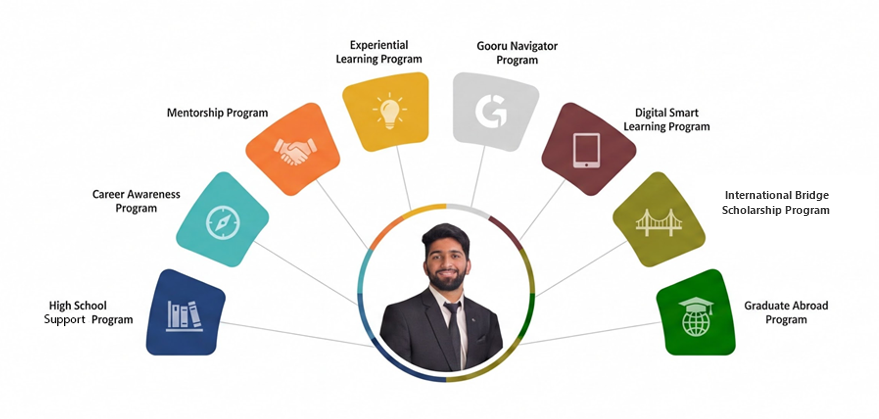
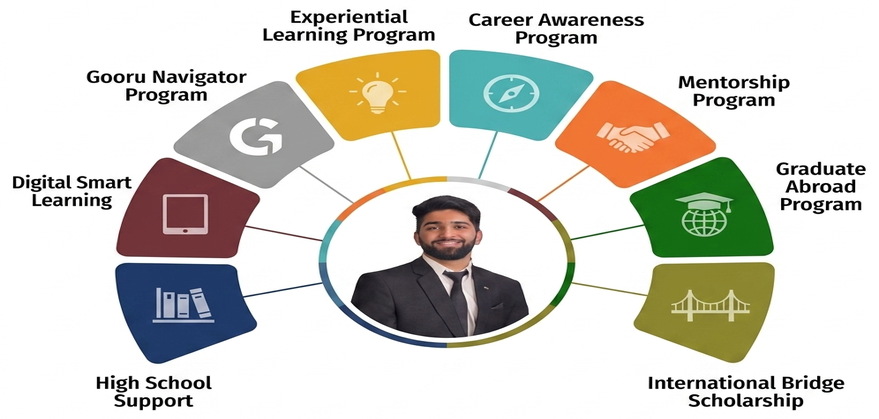
value we deliver photo updated

diff --git a/src/components/ForScholarsPart/ForScholarsPrograms.jsx b/src/components/ForScholarsPart/ForScholarsPrograms.jsx
@@ -2,18 +2,17 @@ import React from "react";
 import { useNavigate, Link } from "react-router-dom";
 import "../../styles/For-Scholars/forscholars-programs.css";
 import { programs } from "../../data/programs";
-import rainbowImg from "../../assets/Images/value-we-deliver-updated.png";
+import rainbowImg from "../../assets/Images/value-we-deliver-rearranged.png";
 
-// ── Rainbow clickable overlay positions (% of image width/height) ──────────
 const rainbowHotspots = [
-  { id: "hsp",         label: "High School\nSupport",          left: "3%",  top: "52%", width: "14%", height: "40%" },
-  { id: "cap",         label: "Career\nAwareness",             left: "11%", top: "28%", width: "14%", height: "40%" },
-  { id: "mentorship",  label: "Mentorship\nProgram",           left: "23%", top: "8%",  width: "14%", height: "38%" },
-  { id: "experiential",label: "Experiential\nLearning",        left: "37%", top: "0%",  width: "14%", height: "35%" },
-  { id: "gooru",       label: "Gooru\nNavigator",              left: "51%", top: "0%",  width: "14%", height: "35%" },
-  { id: "dsle",        label: "Digital Smart\nLearning",       left: "64%", top: "5%",  width: "15%", height: "38%" },
-  { id: "ibsp",        label: "International\nBridge",         left: "75%", top: "26%", width: "14%", height: "40%" },
-  { id: "gap",         label: "Graduate\nAbroad",              left: "84%", top: "50%", width: "14%", height: "42%" },
+  { id: "hsp",         label: "High School\nSupport",          left: "4%",  top: "57%", width: "12%", height: "30%" },
+  { id: "dsle",        label: "Digital Smart\nLearning",       left: "12%", top: "33%", width: "12%", height: "30%" },
+  { id: "gooru",       label: "Gooru\nNavigator",              left: "24%", top: "12%", width: "12%", height: "30%" },
+  { id: "experiential",label: "Experiential\nLearning",        left: "38%", top: "2%",  width: "12%", height: "30%" },
+  { id: "cap",         label: "Career\nAwareness",             left: "50%", top: "2%",  width: "12%", height: "30%" },
+  { id: "mentorship",  label: "Mentorship\nProgram",           left: "65%", top: "9%",  width: "12%", height: "30%" },
+  { id: "gap",         label: "Graduate\nAbroad",              left: "76%", top: "31%", width: "12%", height: "30%" },
+  { id: "ibsp",        label: "International\nBridge",         left: "85%", top: "56%", width: "12%", height: "30%" },
 ];
 
 const ForScholarsPrograms = () => {

diff --git a/src/components/HomePart/ValueWeDeliver/ValueWeDeliver.jsx b/src/components/HomePart/ValueWeDeliver/ValueWeDeliver.jsx
@@ -2,18 +2,17 @@ import React from "react";
 import { Link, useNavigate } from "react-router-dom";
 import "../../../styles/Home/value-we-deliver.css";
 import "../../../styles/For-Scholars/forscholars-programs.css";
-import valueImage from "../../../assets/Images/value-we-deliver-updated.png";
+import valueImage from "../../../assets/Images/value-we-deliver-rearranged.png";
 
-// ── Rainbow clickable overlay positions (% of image width/height) ──────────
 const rainbowHotspots = [
-  { id: "hsp",         label: "High School\nSupport",          left: "3%",  top: "52%", width: "14%", height: "40%" },
-  { id: "cap",         label: "Career\nAwareness",             left: "11%", top: "28%", width: "14%", height: "40%" },
-  { id: "mentorship",  label: "Mentorship\nProgram",           left: "23%", top: "8%",  width: "14%", height: "38%" },
-  { id: "experiential",label: "Experiential\nLearning",        left: "37%", top: "0%",  width: "14%", height: "35%" },
-  { id: "gooru",       label: "Gooru\nNavigator",              left: "51%", top: "0%",  width: "14%", height: "35%" },
-  { id: "dsle",        label: "Digital Smart\nLearning",       left: "64%", top: "5%",  width: "15%", height: "38%" },
-  { id: "ibsp",        label: "International\nBridge",         left: "75%", top: "26%", width: "14%", height: "40%" },
-  { id: "gap",         label: "Graduate\nAbroad",              left: "84%", top: "50%", width: "14%", height: "42%" },
+  { id: "hsp",         label: "High School\nSupport",          left: "4%",  top: "57%", width: "12%", height: "30%" },
+  { id: "dsle",        label: "Digital Smart\nLearning",       left: "12%", top: "33%", width: "12%", height: "30%" },
+  { id: "gooru",       label: "Gooru\nNavigator",              left: "24%", top: "12%", width: "12%", height: "30%" },
+  { id: "experiential",label: "Experiential\nLearning",        left: "38%", top: "2%",  width: "12%", height: "30%" },
+  { id: "cap",         label: "Career\nAwareness",             left: "50%", top: "2%",  width: "12%", height: "30%" },
+  { id: "mentorship",  label: "Mentorship\nProgram",           left: "65%", top: "9%",  width: "12%", height: "30%" },
+  { id: "gap",         label: "Graduate\nAbroad",              left: "76%", top: "31%", width: "12%", height: "30%" },
+  { id: "ibsp",        label: "International\nBridge",         left: "85%", top: "56%", width: "12%", height: "30%" },
 ];
 
 const ValueWeDeliver = () => {

diff --git a/src/components/WhatWeDoPart/WhatWeDoPrograms/WhatWeDoPrograms.jsx b/src/components/WhatWeDoPart/WhatWeDoPrograms/WhatWeDoPrograms.jsx
@@ -2,7 +2,7 @@ import React, { useEffect } from "react";
 import { useLocation } from "react-router-dom";
 import "../../../styles/What-We-Do/whatwedo-programs.css";
 
-import rainbowImg from "../../../assets/Images/value-we-deliver-updated.png";
+import rainbowImg from "../../../assets/Images/value-we-deliver-rearranged.png";
 
 // Program images
 import imgHSP    from "../../../assets/Images/what-we-do-1.JPG";
@@ -142,14 +142,14 @@ const programs = [
 // ─── Rainbow clickable overlay positions (% of image width/height) ──────────
 // Each entry: { id, label, left, top, width, height }
 const rainbowHotspots = [
-  { id: "hsp",         label: "High School\S",     left: "3%",  top: "52%", width: "14%", height: "40%" },
-  { id: "cap",         label: "Career\nAwareness",             left: "11%", top: "28%", width: "14%", height: "40%" },
-  { id: "mentorship",  label: "Mentorship\nProgram",           left: "23%", top: "8%",  width: "14%", height: "38%" },
-  { id: "experiential",label: "Experiential\nLearning",        left: "37%", top: "0%",  width: "14%", height: "35%" },
-  { id: "gooru",       label: "Gooru\nNavigator",              left: "51%", top: "0%",  width: "14%", height: "35%" },
-  { id: "dsle",        label: "Digital Smart\nLearning",       left: "64%", top: "5%",  width: "15%", height: "38%" },
-  { id: "ibsp",        label: "International\nBridge",         left: "75%", top: "26%", width: "14%", height: "40%" },
-  { id: "gap",         label: "Graduate\nAbroad",              left: "84%", top: "50%", width: "14%", height: "42%" },
+  { id: "hsp",         label: "High School\nSupport",          left: "4%",  top: "57%", width: "12%", height: "30%" },
+  { id: "dsle",        label: "Digital Smart\nLearning",       left: "12%", top: "33%", width: "12%", height: "30%" },
+  { id: "gooru",       label: "Gooru\nNavigator",              left: "24%", top: "12%", width: "12%", height: "30%" },
+  { id: "experiential",label: "Experiential\nLearning",        left: "38%", top: "2%",  width: "12%", height: "30%" },
+  { id: "cap",         label: "Career\nAwareness",             left: "50%", top: "2%",  width: "12%", height: "30%" },
+  { id: "mentorship",  label: "Mentorship\nProgram",           left: "65%", top: "9%",  width: "12%", height: "30%" },
+  { id: "gap",         label: "Graduate\nAbroad",              left: "76%", top: "31%", width: "12%", height: "30%" },
+  { id: "ibsp",        label: "International\nBridge",         left: "85%", top: "56%", width: "12%", height: "30%" },
 ];
 
 // ─── Smooth scroll helper ────────────────────────────────────────────────────

diff --git a/src/styles/For-Scholars/forscholars-programs.css b/src/styles/For-Scholars/forscholars-programs.css
@@ -79,7 +79,7 @@
   background-size: cover;
   background-position: center;
   background-repeat: no-repeat;
-  padding: 120px 40px 50px; /* Modified to act as hero */
+  padding: 90px 40px 40px; /* Modified to act as hero */
   text-align: center;
 }
 
@@ -121,7 +121,7 @@
   position: relative;
   display: inline-block;
   width: 100%;
-  max-width: 860px;
+  max-width: 680px;
   margin: 0 auto;
   user-select: none;
   background: #ffffff;
@@ -142,7 +142,7 @@
   background: transparent;
   border: 2px solid transparent;
   cursor: pointer;
-  border-radius: 10px;
+  border-radius: 12px;
   transition: background 0.2s ease, border-color 0.2s ease;
   padding: 0;
 }

diff --git a/src/styles/What-We-Do/whatwedo-programs.css b/src/styles/What-We-Do/whatwedo-programs.css
@@ -135,7 +135,7 @@
   background: transparent;
   border: 2px solid transparent;
   cursor: pointer;
-  border-radius: 10px;
+  border-radius: 12px;
   transition: background 0.2s ease, border-color 0.2s ease;
   padding: 0;
 }